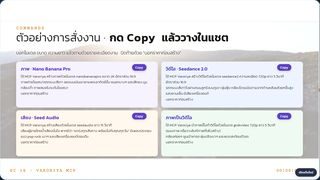
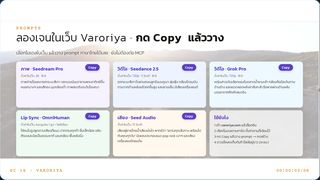
Varoriya try page: plain web prompts (Seedream Pro, Seedance 2.5, Grok Pro, OmniHuman lip sync, Seed Audio); no MCP wording; image-to-video card removed
Claude-Session: https://claude.ai/code/session_01B1v9jyRD8MFjcV6ktsYkvy

diff --git a/cover/creative/menu.html b/cover/creative/menu.html
@@ -4713,10 +4713,10 @@ document.addEventListener("click", e => {
 <div class="stage dim"><video data-src="assets/motion/bg/varoriya--13-truck-mountain.mp4" muted loop playsinline preload="none"></video><div class="vig"></div>
 <div class="c kick a fi" style="left:5cqw;top:8cqw;animation-delay:0.8s">Prompt · folder</div><div class="c vr-h a bi" style="left:5cqw;top:9.8cqw;animation-delay:1.0s">ตัวอย่าง prompt · <b>ใช้รูปจากโฟลเดอร์</b></div><div class="c vr-sub a fi" style="left:5cqw;top:15.4cqw;animation-delay:1.4s">ใส่รูปลงโฟลเดอร์โปรเจกต์ก่อน แล้วกด Copy ไปวางในแชตที่เชื่อมโฟลเดอร์ไว้ · AI จะหยิบรูปจากโฟลเดอร์ไปใช้เอง</div><div class="c vr-card" style="left:5.0cqw;top:19.2cqw;width:44.5cqw;height:14.5cqw;background:#f6f3ff;animation-delay:1.40s"><h4>คน + รถ · ภาพโฆษณา</h4></div><div class="c vr-ph a rv" style="left:6.4cqw;top:22.5cqw;width:3.4cqw;height:3.4cqw;background-image:var(--vr_person_01);animation-delay:1.70s"></div><div class="c vr-ph a rv" style="left:10.7cqw;top:22.5cqw;width:3.4cqw;height:3.4cqw;background-image:var(--vr_person_02);animation-delay:1.70s"></div><div class="c vr-ph a rv" style="left:15.0cqw;top:22.5cqw;width:3.4cqw;height:3.4cqw;background-image:var(--vr_car_ranger);animation-delay:1.70s"></div><div class="c vr-ph a rv" style="left:19.3cqw;top:22.5cqw;width:3.4cqw;height:3.4cqw;background-image:var(--vr_gas_logo);animation-delay:1.70s"></div><div class="c a fi" style="left:6.4cqw;top:26.3cqw;width:41.5cqw;font:300 .95cqw/1.4 Kanit;animation-delay:1.90s">ใช้ MCP Varoriya ทำงานกับโฟลเดอร์นี้ สร้างภาพโฆษณาอัตราส่วน 3:2<br>ผู้ชายจากรูป Pickup-Campaign/person-01.jpg ถึง person-04.jpg<br>ยืนข้างรถใน Pickup-Campaign/car-ranger.jpg หน้าต้องเหมือนในรูป<br>ใช้โลโก้และสีจาก resources · โมเดล gptimage คุณภาพ medium<br>บอกราคาก่อนสร้าง เสร็จแล้วบันทึกใน output</div><div class="c" style="left:41.4cqw;top:20.0cqw"><button class="cp vr-cp" data-p="ใช้ MCP Varoriya ทำงานกับโฟลเดอร์นี้ สร้างภาพโฆษณาอัตราส่วน 3:2&#10;ผู้ชายจากรูป Pickup-Campaign/person-01.jpg ถึง person-04.jpg ยืนข้างรถใน Pickup-Campaign/car-ranger.jpg หน้าต้องเหมือนในรูป&#10;ใช้โลโก้และสีจาก resources · โมเดล gptimage คุณภาพ medium&#10;บอกราคาก่อนสร้าง เสร็จแล้วบันทึกใน output" style="margin:0">Copy</button></div><div class="c vr-card" style="left:50.5cqw;top:19.2cqw;width:44.5cqw;height:14.5cqw;background:#eef4ff;animation-delay:1.65s"><h4>คน + วิว · ภาพสมจริง</h4></div><div class="c vr-ph a rv" style="left:51.9cqw;top:22.5cqw;width:3.4cqw;height:3.4cqw;background-image:var(--vr_person_03);animation-delay:1.95s"></div><div class="c vr-ph a rv" style="left:56.2cqw;top:22.5cqw;width:3.4cqw;height:3.4cqw;background-image:var(--vr_person_04);animation-delay:1.95s"></div><div class="c vr-ph a rv" style="left:60.5cqw;top:22.5cqw;width:3.4cqw;height:3.4cqw;background-image:var(--vr_view_waterfall);animation-delay:1.95s"></div><div class="c a fi" style="left:51.9cqw;top:26.3cqw;width:41.5cqw;font:300 .95cqw/1.4 Kanit;animation-delay:2.15s">ใช้ MCP Varoriya สร้างภาพผู้ชายจากรูปใน Pickup-Campaign/person-01.jpg ถึง person-04.jpg<br>ยืนชมวิวน้ำตกใน Pickup-Campaign/view-waterfall.jpg แสงเช้า ภาพสมจริง<br>โมเดล nanobananapro 2K อัตราส่วน 16:9<br>บอกราคาก่อนสร้าง เสร็จแล้วบันทึกใน output</div><div class="c" style="left:86.9cqw;top:20.0cqw"><button class="cp vr-cp" data-p="ใช้ MCP Varoriya สร้างภาพผู้ชายจากรูปใน Pickup-Campaign/person-01.jpg ถึง person-04.jpg ยืนชมวิวน้ำตกใน Pickup-Campaign/view-waterfall.jpg แสงเช้า ภาพสมจริง&#10;โมเดล nanobananapro 2K อัตราส่วน 16:9&#10;บอกราคาก่อนสร้าง เสร็จแล้วบันทึกใน output" style="margin:0">Copy</button></div><div class="c vr-card" style="left:5.0cqw;top:34.5cqw;width:44.5cqw;height:14.5cqw;background:#fff8ee;animation-delay:1.90s"><h4>ภาพ &rarr; วิดีโอ</h4></div><div class="c vr-ph a rv" style="left:6.4cqw;top:37.7cqw;width:3.8cqw;height:3.8cqw;background-image:var(--vr_output_sample);animation-delay:2.20s"></div><div class="c a fi" style="left:11.0cqw;top:38.9cqw;font:300 1cqw Kanit;color:#6b655b;animation-delay:2.30s">ภาพที่สร้างไว้ใน output</div><div class="c a fi" style="left:6.4cqw;top:42.0cqw;width:41.5cqw;font:300 .95cqw/1.4 Kanit;animation-delay:2.40s">ใช้ MCP Varoriya นำภาพล่าสุดใน output ไปทำวิดีโอด้วยโมเดล seedance2 720p ยาว 5 วินาที 16:9<br>กล้องค่อยๆ เคลื่อนรอบรถ คนหันมายิ้มให้กล้อง มีเสียงเครื่องยนต์<br>บอกราคาก่อนสร้าง เสร็จแล้วบันทึกใน output</div><div class="c" style="left:41.4cqw;top:35.3cqw"><button class="cp vr-cp" data-p="ใช้ MCP Varoriya นำภาพล่าสุดใน output ไปทำวิดีโอด้วยโมเดล seedance2 720p ยาว 5 วินาที 16:9&#10;กล้องค่อยๆ เคลื่อนรอบรถ คนหันมายิ้มให้กล้อง มีเสียงเครื่องยนต์&#10;บอกราคาก่อนสร้าง เสร็จแล้วบันทึกใน output" style="margin:0">Copy</button></div><div class="c vr-card" style="left:50.5cqw;top:34.5cqw;width:44.5cqw;height:14.5cqw;background:#effaf3;animation-delay:2.15s"><h4>คลิปพูดไทย</h4></div><div class="c vr-ph a rv" style="left:51.9cqw;top:37.7cqw;width:3.8cqw;height:3.8cqw;background-image:var(--vr_person_01);animation-delay:2.45s"></div><div class="c a fi" style="left:56.5cqw;top:38.9cqw;font:300 1cqw Kanit;color:#6b655b;animation-delay:2.55s">รูปคนหน้าตรง 1 รูป เป็นภาพตั้งต้น</div><div class="c a fi" style="left:51.9cqw;top:42.0cqw;width:41.5cqw;font:300 .95cqw/1.4 Kanit;animation-delay:2.65s">ใช้ MCP Varoriya ทำคลิปพูดไทยด้วยโมเดล grokvideo เวอร์ชัน 1.5 720p ยาว 8 วินาที<br>ภาพตั้งต้น Pickup-Campaign/person-01.jpg<br>ผู้ชายพูดกับกล้องว่า "สวัสดีครับ วันนี้มาลองทำสื่อด้วย AI กัน"<br>บอกราคาก่อนสร้าง เสร็จแล้วบันทึกใน output</div><div class="c" style="left:86.9cqw;top:35.3cqw"><button class="cp vr-cp" data-p="ใช้ MCP Varoriya ทำคลิปพูดไทยด้วยโมเดล grokvideo เวอร์ชัน 1.5 720p ยาว 8 วินาที&#10;ภาพตั้งต้น Pickup-Campaign/person-01.jpg ผู้ชายพูดกับกล้องว่า &quot;สวัสดีครับ วันนี้มาลองทำสื่อด้วย AI กัน&quot;&#10;บอกราคาก่อนสร้าง เสร็จแล้วบันทึกใน output" style="margin:0">Copy</button></div>
 <div class="grain"></div><div class="bar t"></div><div class="bar b"></div><div class="sc">SC 15 · VARORIYA MCP</div><div class="tc" data-clock>00:00:00:00</div></div></section>
-<section class="demo" data-lesson="varoriya"><header><span class="num">16</span><h2>ตัวอย่างการสั่งงาน</h2><button class="replay">เล่นใหม่</button></header>
+<section class="demo" data-lesson="varoriya"><header><span class="num">16</span><h2>ลองเจนในเว็บ Varoriya</h2><button class="replay">เล่นใหม่</button></header>
 <div class="stage dim"><video data-src="assets/motion/bg/varoriya--14-car-sunset-drone.mp4" muted loop playsinline preload="none"></video><div class="vig"></div>
-<div class="c kick a fi" style="left:5cqw;top:8cqw;animation-delay:0.8s">Commands</div><div class="c vr-h a bi" style="left:5cqw;top:9.8cqw;animation-delay:1.0s">ตัวอย่างการสั่งงาน · <b>กด Copy แล้ววางในแชต</b></div><div class="c vr-sub a fi" style="left:5cqw;top:15.4cqw;animation-delay:1.4s">บอกโมเดล ขนาด ความยาว แล้วตามด้วยรายละเอียดงาน · ปิดท้ายด้วย "บอกราคาก่อนสร้าง"</div><div class="c vr-card" style="left:5.0cqw;top:19.2cqw;width:44.5cqw;height:14.5cqw;background:#f6f3ff;animation-delay:1.40s"><h4>ภาพ · Nano Banana Pro</h4><p style="font-size:1.12cqw;line-height:1.6">ใช้ MCP Varoriya สร้างภาพด้วยโมเดล nanobananapro ขนาด 2K อัตราส่วน 16:9<br>ภาพถ่ายโฆษณารถกระบะสีเทา จอดบนเนินเขายามพระอาทิตย์ขึ้น หมอกบางๆ แสงสีทอง มุมกล้องต่ำ ภาพสมจริงระดับโฆษณา<br>บอกราคาก่อนสร้าง</p></div><div class="c" style="left:41.4cqw;top:20.0cqw"><button class="cp vr-cp" data-p="ใช้ MCP Varoriya สร้างภาพด้วยโมเดล nanobananapro ขนาด 2K อัตราส่วน 16:9&#10;ภาพถ่ายโฆษณารถกระบะสีเทา จอดบนเนินเขายามพระอาทิตย์ขึ้น หมอกบางๆ แสงสีทอง มุมกล้องต่ำ ภาพสมจริงระดับโฆษณา&#10;บอกราคาก่อนสร้าง" style="margin:0">Copy</button></div><div class="c vr-card" style="left:50.5cqw;top:19.2cqw;width:44.5cqw;height:14.5cqw;background:#eef4ff;animation-delay:1.65s"><h4>วิดีโอ · Seedance 2.0</h4><p style="font-size:1.12cqw;line-height:1.6">ใช้ MCP Varoriya สร้างวิดีโอด้วยโมเดล seedance2 ความละเอียด 720p ยาว 5 วินาที อัตราส่วน 16:9<br>รถกระบะสีเทาวิ่งผ่านถนนลูกรังบนภูเขา ฝุ่นฟุ้ง กล้องโดรนบินตามจากด้านหลังแล้วยกขึ้นสูง แสงยามเย็น มีเสียงเครื่องยนต์<br>บอกราคาก่อนสร้าง</p></div><div class="c" style="left:86.9cqw;top:20.0cqw"><button class="cp vr-cp" data-p="ใช้ MCP Varoriya สร้างวิดีโอด้วยโมเดล seedance2 ความละเอียด 720p ยาว 5 วินาที อัตราส่วน 16:9&#10;รถกระบะสีเทาวิ่งผ่านถนนลูกรังบนภูเขา ฝุ่นฟุ้ง กล้องโดรนบินตามจากด้านหลังแล้วยกขึ้นสูง แสงยามเย็น มีเสียงเครื่องยนต์&#10;บอกราคาก่อนสร้าง" style="margin:0">Copy</button></div><div class="c vr-card" style="left:5.0cqw;top:34.5cqw;width:44.5cqw;height:14.5cqw;background:#fff8ee;animation-delay:1.90s"><h4>เสียง · Seed Audio</h4><p style="font-size:1.12cqw;line-height:1.6">ใช้ MCP Varoriya สร้างเสียงด้วยโมเดล seedaudio ยาว 15 วินาที<br>เสียงผู้ชายไทยน้ำเสียงมั่นใจ พากย์ว่า "แกร่งทุกเส้นทาง พร้อมไปกับคุณทุกวัน" มีเพลงประกอบแนว pop rock เบาๆ และเสียงเครื่องยนต์ตอนต้น<br>บอกราคาก่อนสร้าง</p></div><div class="c" style="left:41.4cqw;top:35.3cqw"><button class="cp vr-cp" data-p="ใช้ MCP Varoriya สร้างเสียงด้วยโมเดล seedaudio ยาว 15 วินาที&#10;เสียงผู้ชายไทยน้ำเสียงมั่นใจ พากย์ว่า &quot;แกร่งทุกเส้นทาง พร้อมไปกับคุณทุกวัน&quot; มีเพลงประกอบแนว pop rock เบาๆ และเสียงเครื่องยนต์ตอนต้น&#10;บอกราคาก่อนสร้าง" style="margin:0">Copy</button></div><div class="c vr-card" style="left:50.5cqw;top:34.5cqw;width:44.5cqw;height:14.5cqw;background:#effaf3;animation-delay:2.15s"><h4>ภาพเป็นวิดีโอ</h4><p style="font-size:1.12cqw;line-height:1.6">ใช้ MCP Varoriya นำภาพนี้ไปทำวิดีโอด้วยโมเดล grokvideo 720p ยาว 5 วินาที<br>(แนบภาพ หรือวางลิงก์ภาพที่เพิ่งสร้าง)<br>กล้องค่อยๆ ซูมเข้าหารถ ฝุ่นปลิวเบาๆ แสงแดดสะท้อนตัวรถ<br>บอกราคาก่อนสร้าง</p></div><div class="c" style="left:86.9cqw;top:35.3cqw"><button class="cp vr-cp" data-p="ใช้ MCP Varoriya นำภาพนี้ไปทำวิดีโอด้วยโมเดล grokvideo 720p ยาว 5 วินาที&#10;(แนบภาพ หรือวางลิงก์ภาพที่เพิ่งสร้าง)&#10;กล้องค่อยๆ ซูมเข้าหารถ ฝุ่นปลิวเบาๆ แสงแดดสะท้อนตัวรถ&#10;บอกราคาก่อนสร้าง" style="margin:0">Copy</button></div>
-<div class="grain"></div><div class="bar t"></div><div class="bar b"></div><div class="sc">SC 16 · VARORIYA MCP</div><div class="tc" data-clock>00:00:00:00</div></div></section>
+<div class="c kick a fi" style="left:5cqw;top:8cqw;animation-delay:0.8s">Prompts</div><div class="c vr-h a bi" style="left:5cqw;top:9.8cqw;animation-delay:1.0s">ลองเจนในเว็บ Varoriya · <b>กด Copy แล้ววาง</b></div><div class="c vr-sub a fi" style="left:5cqw;top:15.4cqw;animation-delay:1.4s">เลือกโมเดลในเว็บ แล้ววาง prompt ภาษาไทยได้เลย · ยังไม่ต้องต่อ MCP</div><div class="c vr-card" style="left:5cqw;top:19.2cqw;width:29.3cqw;height:14.5cqw;background:#f6f3ff"><h4 style="margin-right:6cqw">ภาพ · Seedream Pro</h4><p style="font-size:.95cqw;color:#6b655b;margin:.1cqw 0 .4cqw">ตั้งค่าในเว็บ: 2K · 16:9</p><p style="font-size:1.05cqw;line-height:1.55">ภาพถ่ายโฆษณารถกระบะสีเทา จอดบนเนินเขายามพระอาทิตย์ขึ้น หมอกบางๆ แสงสีทอง มุมกล้องต่ำ ภาพสมจริงระดับโฆษณา</p></div><div class="c" style="left:26.70cqw;top:20.0cqw"><button class="cp vr-cp" data-p="ภาพถ่ายโฆษณารถกระบะสีเทา จอดบนเนินเขายามพระอาทิตย์ขึ้น หมอกบางๆ แสงสีทอง มุมกล้องต่ำ ภาพสมจริงระดับโฆษณา" style="margin:0">Copy</button></div><div class="c vr-card" style="left:35.35cqw;top:19.2cqw;width:29.3cqw;height:14.5cqw;background:#eef4ff"><h4 style="margin-right:6cqw">วิดีโอ · Seedance 2.5</h4><p style="font-size:.95cqw;color:#6b655b;margin:.1cqw 0 .4cqw">ตั้งค่าในเว็บ: 720p · 5 วินาที · 16:9</p><p style="font-size:1.05cqw;line-height:1.55">รถกระบะสีเทาวิ่งผ่านถนนลูกรังบนภูเขา ฝุ่นฟุ้ง กล้องโดรนบินตามจากด้านหลังแล้วยกขึ้นสูง แสงยามเย็น มีเสียงเครื่องยนต์</p></div><div class="c" style="left:57.05cqw;top:20.0cqw"><button class="cp vr-cp" data-p="รถกระบะสีเทาวิ่งผ่านถนนลูกรังบนภูเขา ฝุ่นฟุ้ง กล้องโดรนบินตามจากด้านหลังแล้วยกขึ้นสูง แสงยามเย็น มีเสียงเครื่องยนต์" style="margin:0">Copy</button></div><div class="c vr-card" style="left:65.7cqw;top:19.2cqw;width:29.3cqw;height:14.5cqw;background:#eef8ff"><h4 style="margin-right:6cqw">วิดีโอ · Grok Pro</h4><p style="font-size:.95cqw;color:#6b655b;margin:.1cqw 0 .4cqw">ตั้งค่าในเว็บ: 720p · 16:9</p><p style="font-size:1.05cqw;line-height:1.55">หญิงสาวเดินเลือกของในตลาดน้ำยามเช้า กล้องถือมือเดินตามด้านข้าง แสงแดดลอดหลังคาสังกะสี เรือพายผ่านด้านหลัง บรรยากาศคึกคักสมจริง</p></div><div class="c" style="left:87.40cqw;top:20.0cqw"><button class="cp vr-cp" data-p="หญิงสาวเดินเลือกของในตลาดน้ำยามเช้า กล้องถือมือเดินตามด้านข้าง แสงแดดลอดหลังคาสังกะสี เรือพายผ่านด้านหลัง บรรยากาศคึกคักสมจริง" style="margin:0">Copy</button></div><div class="c vr-card" style="left:5cqw;top:34.5cqw;width:29.3cqw;height:14.5cqw;background:#effaf3"><h4 style="margin-right:6cqw">Lip Sync · OmniHuman</h4><p style="font-size:.95cqw;color:#6b655b;margin:.1cqw 0 .4cqw">ตั้งค่าในเว็บ: แนบรูปคน 1 รูป + ไฟล์เสียง</p><p style="font-size:1.05cqw;line-height:1.55">ให้คนในรูปพูดตามเสียงที่แนบ ปากตรงทุกคำ ยิ้มเล็กน้อย ขยับศีรษะและมือเป็นธรรมชาติ มองกล้อง พื้นหลังนิ่ง</p></div><div class="c" style="left:26.70cqw;top:35.3cqw"><button class="cp vr-cp" data-p="ให้คนในรูปพูดตามเสียงที่แนบ ปากตรงทุกคำ ยิ้มเล็กน้อย ขยับศีรษะและมือเป็นธรรมชาติ มองกล้อง พื้นหลังนิ่ง" style="margin:0">Copy</button></div><div class="c vr-card" style="left:35.35cqw;top:34.5cqw;width:29.3cqw;height:14.5cqw;background:#fff8ee"><h4 style="margin-right:6cqw">เสียง · Seed Audio</h4><p style="font-size:.95cqw;color:#6b655b;margin:.1cqw 0 .4cqw">ตั้งค่าในเว็บ: 15 วินาที</p><p style="font-size:1.05cqw;line-height:1.55">เสียงผู้ชายไทยน้ำเสียงมั่นใจ พากย์ว่า "แกร่งทุกเส้นทาง พร้อมไปกับคุณทุกวัน" มีเพลงประกอบแนว pop rock เบาๆ และเสียงเครื่องยนต์ตอนต้น</p></div><div class="c" style="left:57.05cqw;top:35.3cqw"><button class="cp vr-cp" data-p="เสียงผู้ชายไทยน้ำเสียงมั่นใจ พากย์ว่า &quot;แกร่งทุกเส้นทาง พร้อมไปกับคุณทุกวัน&quot; มีเพลงประกอบแนว pop rock เบาๆ และเสียงเครื่องยนต์ตอนต้น" style="margin:0">Copy</button></div><div class="c vr-card" style="left:65.7cqw;top:34.5cqw;width:29.3cqw;height:14.5cqw;background:rgba(255,255,255,.75)"><h4>ใช้ยังไง</h4><p style="font-size:1.05cqw;line-height:1.7">1 เข้า <b>varoriya.com</b> แล้วล็อกอิน<br>2 เลือกโมเดลตามการ์ด ตั้งค่าตามที่เขียนไว้<br>3 กด Copy แล้ววาง prompt → กดสร้าง<br>4 ดาวน์โหลดเก็บทันที (ไฟล์อยู่ราว 24 ชม.)</p></div>
+<div class="grain"></div><div class="bar t"></div><div class="bar b"></div><div class="sc">SC 16 · VARORIYA</div><div class="tc" data-clock>00:00:00:00</div></div></section>
 <section class="demo" data-lesson="varoriya"><header><span class="num">17</span><h2>ใช้ให้คุ้ม · เคล็ดลับ</h2><button class="replay">เล่นใหม่</button></header>
 <div class="stage dim"><video data-src="assets/motion/bg/varoriya--15-piggy-bank.mp4" muted loop playsinline preload="none"></video><div class="vig"></div>
 <div class="c kick a fi" style="left:5cqw;top:8cqw;animation-delay:0.8s">Tips</div><div class="c vr-h a bi" style="left:5cqw;top:9.8cqw;animation-delay:1.0s">ใช้ให้คุ้ม · <b>เคล็ดลับ</b></div><div class="c vr-sub a fi" style="left:5cqw;top:15.4cqw;animation-delay:1.4s">ทุกงานหักเหรียญ วางแผนก่อนกดสร้าง</div><div class="vr-row" style="top:19.4cqw;height:4.9cqw;grid-template-columns:20cqw 1fr;animation-delay:1.40s"><span style="font:600 1.55cqw Kanit;color:#5b3fc4">บอกราคาก่อนสร้าง</span><span style="font:300 1.4cqw Kanit">ปิดท้ายคำสั่งด้วย "บอกราคาก่อนสร้าง" ดูราคาแล้วค่อยยืนยัน</span></div><div class="vr-row" style="top:25.0cqw;height:4.9cqw;grid-template-columns:20cqw 1fr;animation-delay:1.65s"><span style="font:600 1.55cqw Kanit;color:#5b3fc4">เริ่มจากถูกก่อน</span><span style="font:300 1.4cqw Kanit">ร่างด้วย z-image หรือ 480p พอได้แบบที่ชอบ ค่อยทำตัวจริงความละเอียดสูง</span></div><div class="vr-row" style="top:30.6cqw;height:4.9cqw;grid-template-columns:20cqw 1fr;animation-delay:1.90s"><span style="font:600 1.55cqw Kanit;color:#5b3fc4">ดาวน์โหลดทันที</span><span style="font:300 1.4cqw Kanit">ลิงก์ไฟล์หมดอายุประมาณ 24 ชั่วโมง</span></div><div class="vr-row" style="top:36.2cqw;height:4.9cqw;grid-template-columns:20cqw 1fr;animation-delay:2.15s"><span style="font:600 1.55cqw Kanit;color:#5b3fc4">เหรียญหมด</span><span style="font:300 1.4cqw Kanit">พิมพ์ "ใช้ MCP Varoriya เติมเหรียญ" จะได้ QR PromptPay · ดูหน้า 12</span></div><a class="c vr-link" href="https://varoriya.com/account/api-usage/" target="_blank" rel="noopener" style="left:5cqw;right:5cqw;top:42.2cqw"><div class="vr-row a fu" style="position:relative;left:0;right:0;height:5.4cqw;grid-template-columns:20cqw 1fr auto;background:#fff3ec;animation-delay:2.6s"><span style="font:600 1.55cqw Kanit;color:#5b3fc4">ดูประวัติการใช้</span><span style="font:400 1.4cqw Kanit">varoriya.com/account/api-usage</span><span class="vr-btn">เปิดประวัติการใช้</span></div></a>

diff --git a/cover/menu.html b/cover/menu.html
@@ -2369,7 +2369,7 @@
           { type: "profile-site", label: "01 · Varoriya MCP", href: "creative/menu.html?embed=1#varoriya/1" },
           { type: "profile-site", label: "ผลงานจริง 6 คลิป", href: "creative/menu.html?embed=1#varoriya/18" },
           // 2026-11-05: top-up page removed (coins are handed out in class); one page of real commands to try after connecting
-          { type: "profile-site", label: "16 · ลองสั่งงาน", href: "creative/menu.html?embed=1#varoriya/16" }
+          { type: "profile-site", label: "ลองเจนในเว็บ Varoriya", href: "creative/menu.html?embed=1#varoriya/16" }
         ]
       },
       // deck-04 is locally trimmed to 9 steps; apply-space-skin.py reapplies the trim.

diff --git a/README.md b/README.md
@@ -15,3 +15,4 @@
 - Talk copy of cover/creative/menu.html is hand-edited: Varoriya page 1 no longer says "ดูในหน้า 4–6" (2026-11-05). Re-running scripts/apply-space-skin.py refetches it and undoes this; re-apply by hand.
 - Talk copy: Varoriya pages 7 and 9 rewritten as one page each (Claude / ChatGPT MCP connect), 2026-11-05.
 - Talk copy: Varoriya page 1 lost its "ตัวอย่างงานจริง" strip; new section 18 "ผลงานจริง 6 คลิป" appended after section 17 (2026-11-05).
+- Talk copy: Varoriya page 16 rewritten as web prompts (Seedream Pro, Seedance 2.5, Grok Pro, OmniHuman lip sync, Seed Audio), no MCP wording (2026-11-05).
